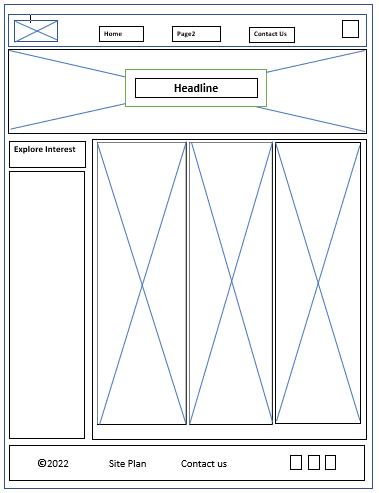
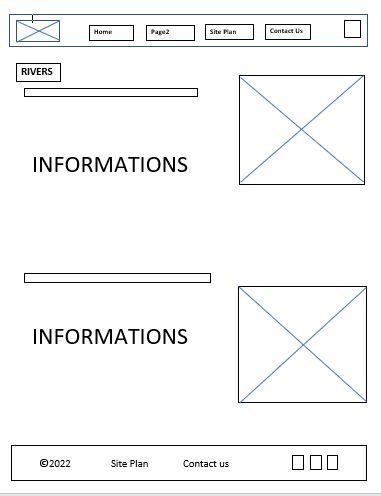
Changes

diff --git a/wdd130/site-plan.html b/wdd130/site-plan.html
@@ -10,7 +10,7 @@
 
   <body>
     <header>
-      <h1>Cielo Apparel</h1>
+      <h1>Fashion Store</h1>
       <h2>Manuel Harold Sagario</h2>
       <h2>WDD 130-18</h2>
       <!-- In the header above, add the name or your site, your name and class number. For example if you are in section 3 you would put WDD 130.03 -->
@@ -21,18 +21,18 @@
       <hr>
       <h2>Overview</h2>
       <h3>Purpose</h3>      
-      <p>Cielo Apparel- is a fast fashion retail/ wholesale online store that offers a wide selection of good quality clothing to all handsome men and beautiful women and fashion lovers who are young at heart.</p>  <!-- change this -->
+      <p>Fasion Store - is a fashion retail/ wholesale online store that offers a wide selection of good quality apparel to all men and  women and fashion lovers who are young at heart.</p>  <!-- change this -->
 
 
       <h3>Audience</h3>
       <p> We give the best HIGH QUALITY AND CLASSY STYLE apparel!
-        From Italy Brand New, Good as New Preloved Clothes, and Bags!</p>  <!-- change this -->
+        From Italy Brand New, Good as New Preloved Clothes, Dress, Bags, and more!</p>  <!-- change this -->
 
       <hr>
       <h2>Branding</h2>
       <h3>Website Logo</h3>
       <!-- Replace this with some sort of logo for your site.  A logo can be as simple as the name of your site in a nice font :) -->
-      <img class ="logo" src="images/cielo.jpg" alt="Logo image">
+      <img class ="logo" src="images/Store Logo.png" alt="Logo image">
       <hr>
       <h2>
         Style Guide
@@ -89,8 +89,8 @@
       <!-- Think about how you want your navigation bar to look. In the site-plan.css file change the colors to your colors to get the look you desire. --> 
       <nav>
         <a href="#">Home</a>
-        <a href="#">Page2</a>
-        <a href="#">Page3</a>
+        <a href="#">Apparels</a>
+        <a href="#">FAQ</a>
       </nav>
       <hr>
       <h2>
@@ -126,7 +126,7 @@
       </h2>
       <h3>Home page</h3>
       <p>
-        For the Home Page, you can see the mission statement of the website, the greetings and the promise together with a tagline. Here's the page as well where customer's will discover some feature, advantage and benefits they can receive of shopping online in our website.
+        For the Home Page, you can see the mission statement of the website and a tagline. Here's the page as well where customer's will discover some feature, advantage and benefits they can get by shopping online in our store.
       </p>
       <p>Images for the Home page</p>
         <img src="https://images.pexels.com/photos/7808603/pexels-photo-7808603.jpeg?cs=srgb&dl=pexels-wallace-chuck-7808603.jpg&fm=jpg" alt="man photo">
@@ -135,7 +135,7 @@
       </ul>
       <h3>Categories</h3>
       <p>
-        So here's the page where different categories depending on customer's taste are located. It includes shirts, pants, dress, garments and many more. User's can also see here what are the top sales, latest sales and prices that will be perfect for their budget.
+        So here's the page where different categories depending on customer's taste are located. It includes shirts, pants, shoes, bags and more.
       </p>
       <p>Images for the Page 2</p>
         <img src="https://images.pexels.com/photos/322207/pexels-photo-322207.jpeg?cs=srgb&dl=pexels-lumn-322207.jpg&fm=jpg" alt="clothings1">
@@ -160,21 +160,21 @@
 
       <h3>Home</h3>
       <p>         
-        [Any additional details about home that the wireframe does not make clear]
+        Homepage contains a large photo with a tagline.
       </p>
-      <img src="#" alt="home page wireframe">
+      <img src="images/home.PNG" alt="home page wireframe">
 
-      <h3>[Page 2]</h3>
+      <h3>Categories</h3>
       <p>         
-        [Any additional details about page 2 that the wireframe does not make clear]
+        The big box is again a large but different photo then the three boxes below would be descriptions for three different categories.
       </p>
-      <img src="#" alt="page 2 wireframe">
+      <img src="images/categories.PNG" alt="categories wireframe">
 
-      <h3>[Page 3]</h3>
+      <h3>FAQ</h3>
       <p>         
-        [Any additional details about page 3 that the wireframe does not make clear]
+        This will be the question and answer page.
       </p>
-      <img src="#" alt="page 3 wireframe">
+      <img src="images/faq.PNG" alt="FAQ wireframe">
     </main>
   </body>
 

diff --git a/wwr/rivers.html b/wwr/rivers.html
@@ -1,0 +1,58 @@
+<!DOCTYPE html>
+<html lang="en">
+<head>
+    <meta charset="UTF-8">
+    <meta http-equiv="X-UA-Compatible" content="IE=edge">
+    <meta name="viewport" content="width=device-width, initial-scale=1.0">
+    <title>Whitewater Rafting Vacations | Dry Oar Boating | Where To Go</title>
+    <link rel="stylesheet" href="styles/wwr_styles.css" >
+</head>
+<body>
+    <div id="river-content">
+    <header>
+        <a id="logo_link" href="index.html">
+            <img class="logo" src="images/dryoarlogo.png" alt="Dry Oar Logo">
+        </a>
+        <nav>
+            <a href="index.html">Home</a>
+            <a href="#">Where to Go</a>
+            <a href="site-plan-rafting.html">Site Plan</a>
+            <a href="contactus.html">Contact Us</a>
+        </nav>
+    </header>
+    <div id="river">
+        <div id="river-box">
+            <img id="river-img" src="https://byui-wdd.github.io/wdd130/resources/images/rafting16_1024.jpg" alt="where to go main background">
+        </div>
+        <section id="river-msg">
+            <h1 class="home-title">Enjoy The Rivers Of Dreams</h1>
+        </section>
+    </div>
+    <main class="river-row">
+        <section class="river-column">
+            <img src="https://byui-wdd.github.io/wdd130/resources/images/elves-chasm-landscape.jpg" width="100%">
+            <h2>Elves Chasm</h2>
+        </section>
+        </section>
+        <section class="river-column">
+            <img src="https://byui-wdd.github.io/wdd130/resources/images/littlecolorado.jpg" width="100%">
+            <h2>Little Collorado</h2>
+    </main>
+    <footer>
+        <h3>Dry Oar &copy; 2022 - Harold Sagario</h3>
+        <h3><a href="site-plan-rafting.html">Site Plan</a></h3>
+        <h3><a href="contactus.html">Contact Us</a></h3>
+        <div class="social">
+            <a href="https://facebook.com" target="blank">
+                <img src="images/facebook.png" alt="fb icon">
+            </a>
+            <a href="https://twitter.com" target="blank">
+                <img src="images/twitter.png" alt="twitter icon">
+            </a>
+            <a href="https://instagram.com" target="blank">
+                <img src="images/instagram.png" alt="instagram icon">
+            </a>
+        </div>
+    </footer>
+    </div>
+</body>

diff --git a/wdd130/pricing.html b/wdd130/pricing.html
@@ -1,0 +1,54 @@
+
+<!DOCTYPE html>
+<html lang="en">
+<head>
+    <link rel="stylesheet" href="styles/pricing.css">
+    <meta charset="UTF-8">
+    <meta http-equiv="X-UA-Compatible" content="IE=edge">
+    <meta name="viewport" content="width=device-width, initial-scale=1.0">
+    <title>Pricing</title>
+</head>
+<body>
+    <div id="content">
+<header>
+    <a id="logo_link" href="index.html">
+        <img class="logo" src="images/intothewildwhitewater.png" alt="Into The Wild Whitewater Logo">
+        <section id="hero-msg">
+            <h4 class="home-title">Our Adventure Prices</h4>
+        </section>
+    </a>
+    <nav>
+        <a href="index.html">Home</a>
+        <a href="pricing.html">Pricing</a>
+        <a href="site-plan-rafting.html">Site Plan</a>
+        <a href="contactus.html">Contact Us</a>
+    </nav>
+</header>   
+<div id="hero">
+    <div id="hero-box">
+        <img id="hero-img" src="images/rafting.jpg" alt="White Water Rafting">
+    </div>
+</div>    
+<main>
+    <div class="box">
+        <H1>Beginner Package</H1>
+        <p>The classic family friendly whitewater rafting trip on an iconic mountain river. This popular trip is perfect for families and paddlers of any skill level.</p>
+        <button>Shop</button>
+    </div>
+    <div class="box">
+        <H1>Intermediate Package</H1>
+        <p>Experience thrilling whitewater rafting with stunning scenery, ideal for families and visitors looking to unplug in the outdoors. This adventure delivers nonstop action in a few short hours making it convenient and unforgettable.</p>
+        <button>Shop</button>
+    </div>
+    <div class="box">
+        <H1>Advanced Package</H1>
+        <p>A step up from our intermediate trips and designed for paddlers looking to find themselves on larger and longer Class III and Class IV rapids.</p>
+        <button>Shop</button>
+    </div>
+</main>
+<footer>
+    <h2>Pricing &copy; 2022 - Alison Mazzarella-Wölzl</h2>
+</footer>
+</div>
+</body>
+</html>

diff --git a/wwr/styles/wwr_styles.css b/wwr/styles/wwr_styles.css
@@ -235,6 +235,52 @@ h2 {
     margin: 0;
 }
 
+
+/*Heading content*/
+#river-content {
+    max-width: 1600px;
+    margin: 0 auto;
+}
+
+/*RIVERS*/
+
+#river {
+    display: grid;
+    grid-template-columns: 1fr 3fr 1fr;
+    margin-top: -100px;
+    width: 100%;
+    height: 1300px; 
+}
+
+#river-msg {
+    letter-spacing: 8px;
+    color: white;
+    grid-column: 2/3;
+    grid-row: 1/2;
+    margin-top: 300px;
+    text-align:center;
+    width:1
+}
+
+#river-box {
+    grid-column: 1/4;
+    grid-row: 1/3;
+    z-index: -1;
+}
+
+#river-img {
+    width: 100%;
+    height:50%;
+}
+
+.river-column {
+    width: 500px;
+}
+
+
+
+
+
 @media screen and (max-width: 900px) {
     #hero, .home-grid {
         display: block;

diff --git a/wwr/site-plan-rafting.html b/wwr/site-plan-rafting.html
@@ -95,7 +95,7 @@
     <!-- Think about how you want your navigation bar to look. In the site-plan.css file change the colors to your colors to get the look you desire. -->
     <nav>
       <a href="#">Home</a>
-      <a href="#">Page2</a>
+      <a href="#">Where to Go</a>
       <a href="#">Contact Us</a>
     </nav>
     <hr />
